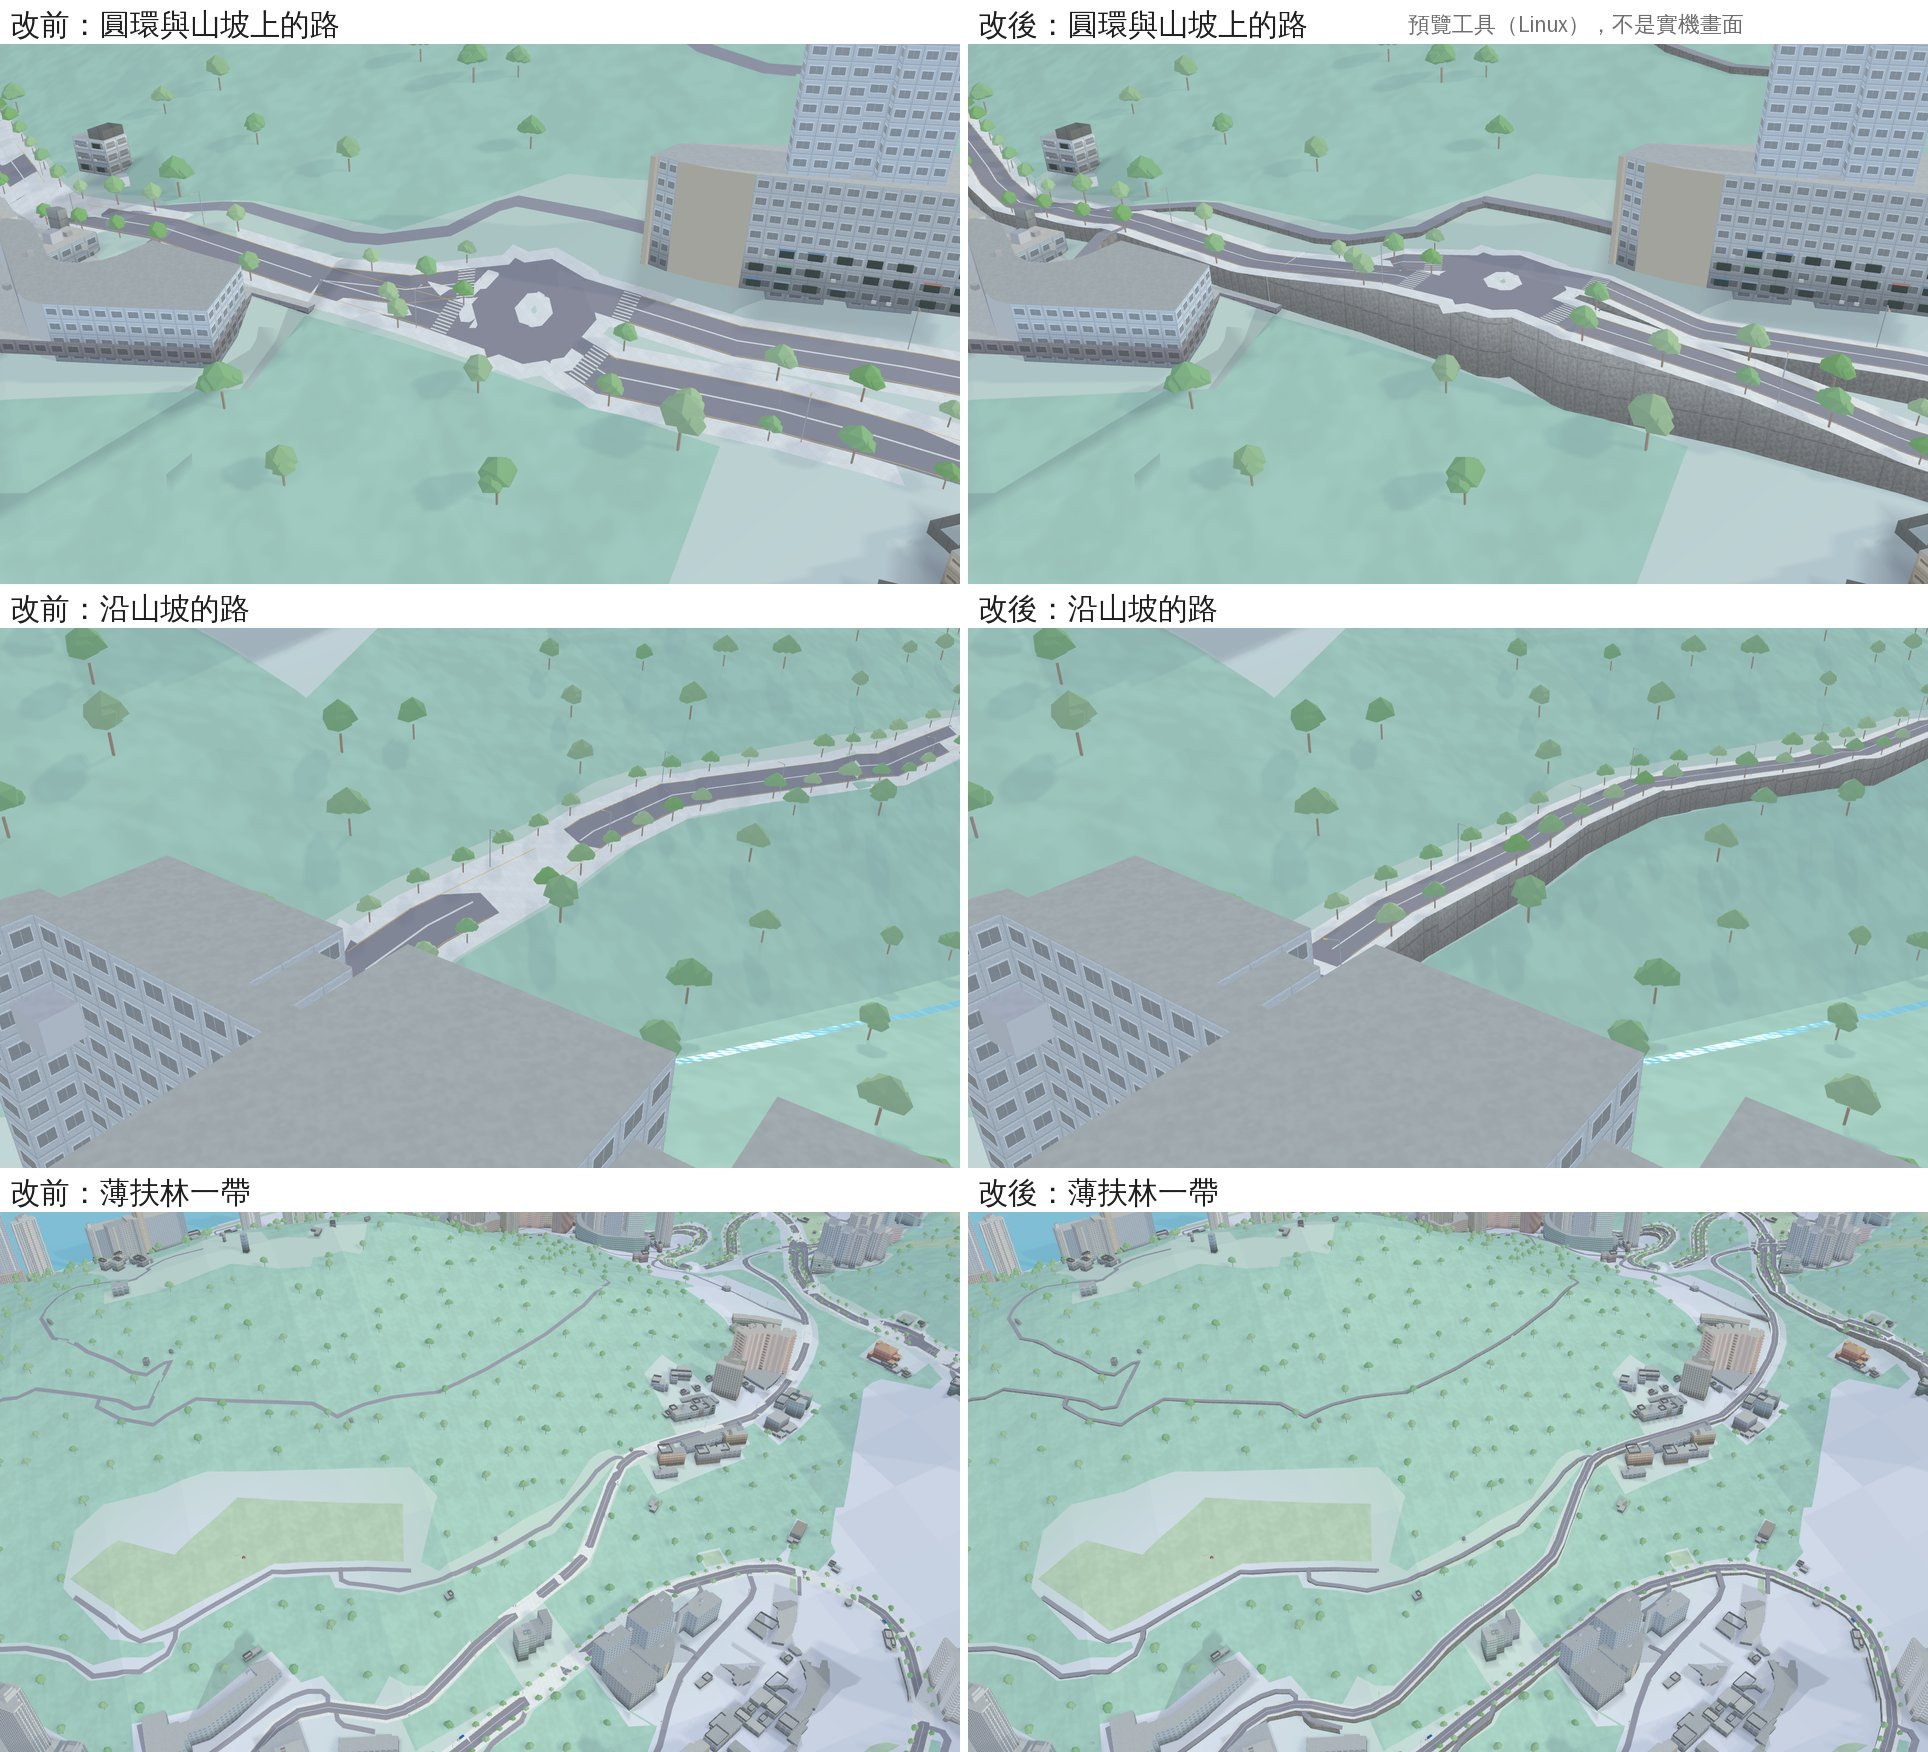
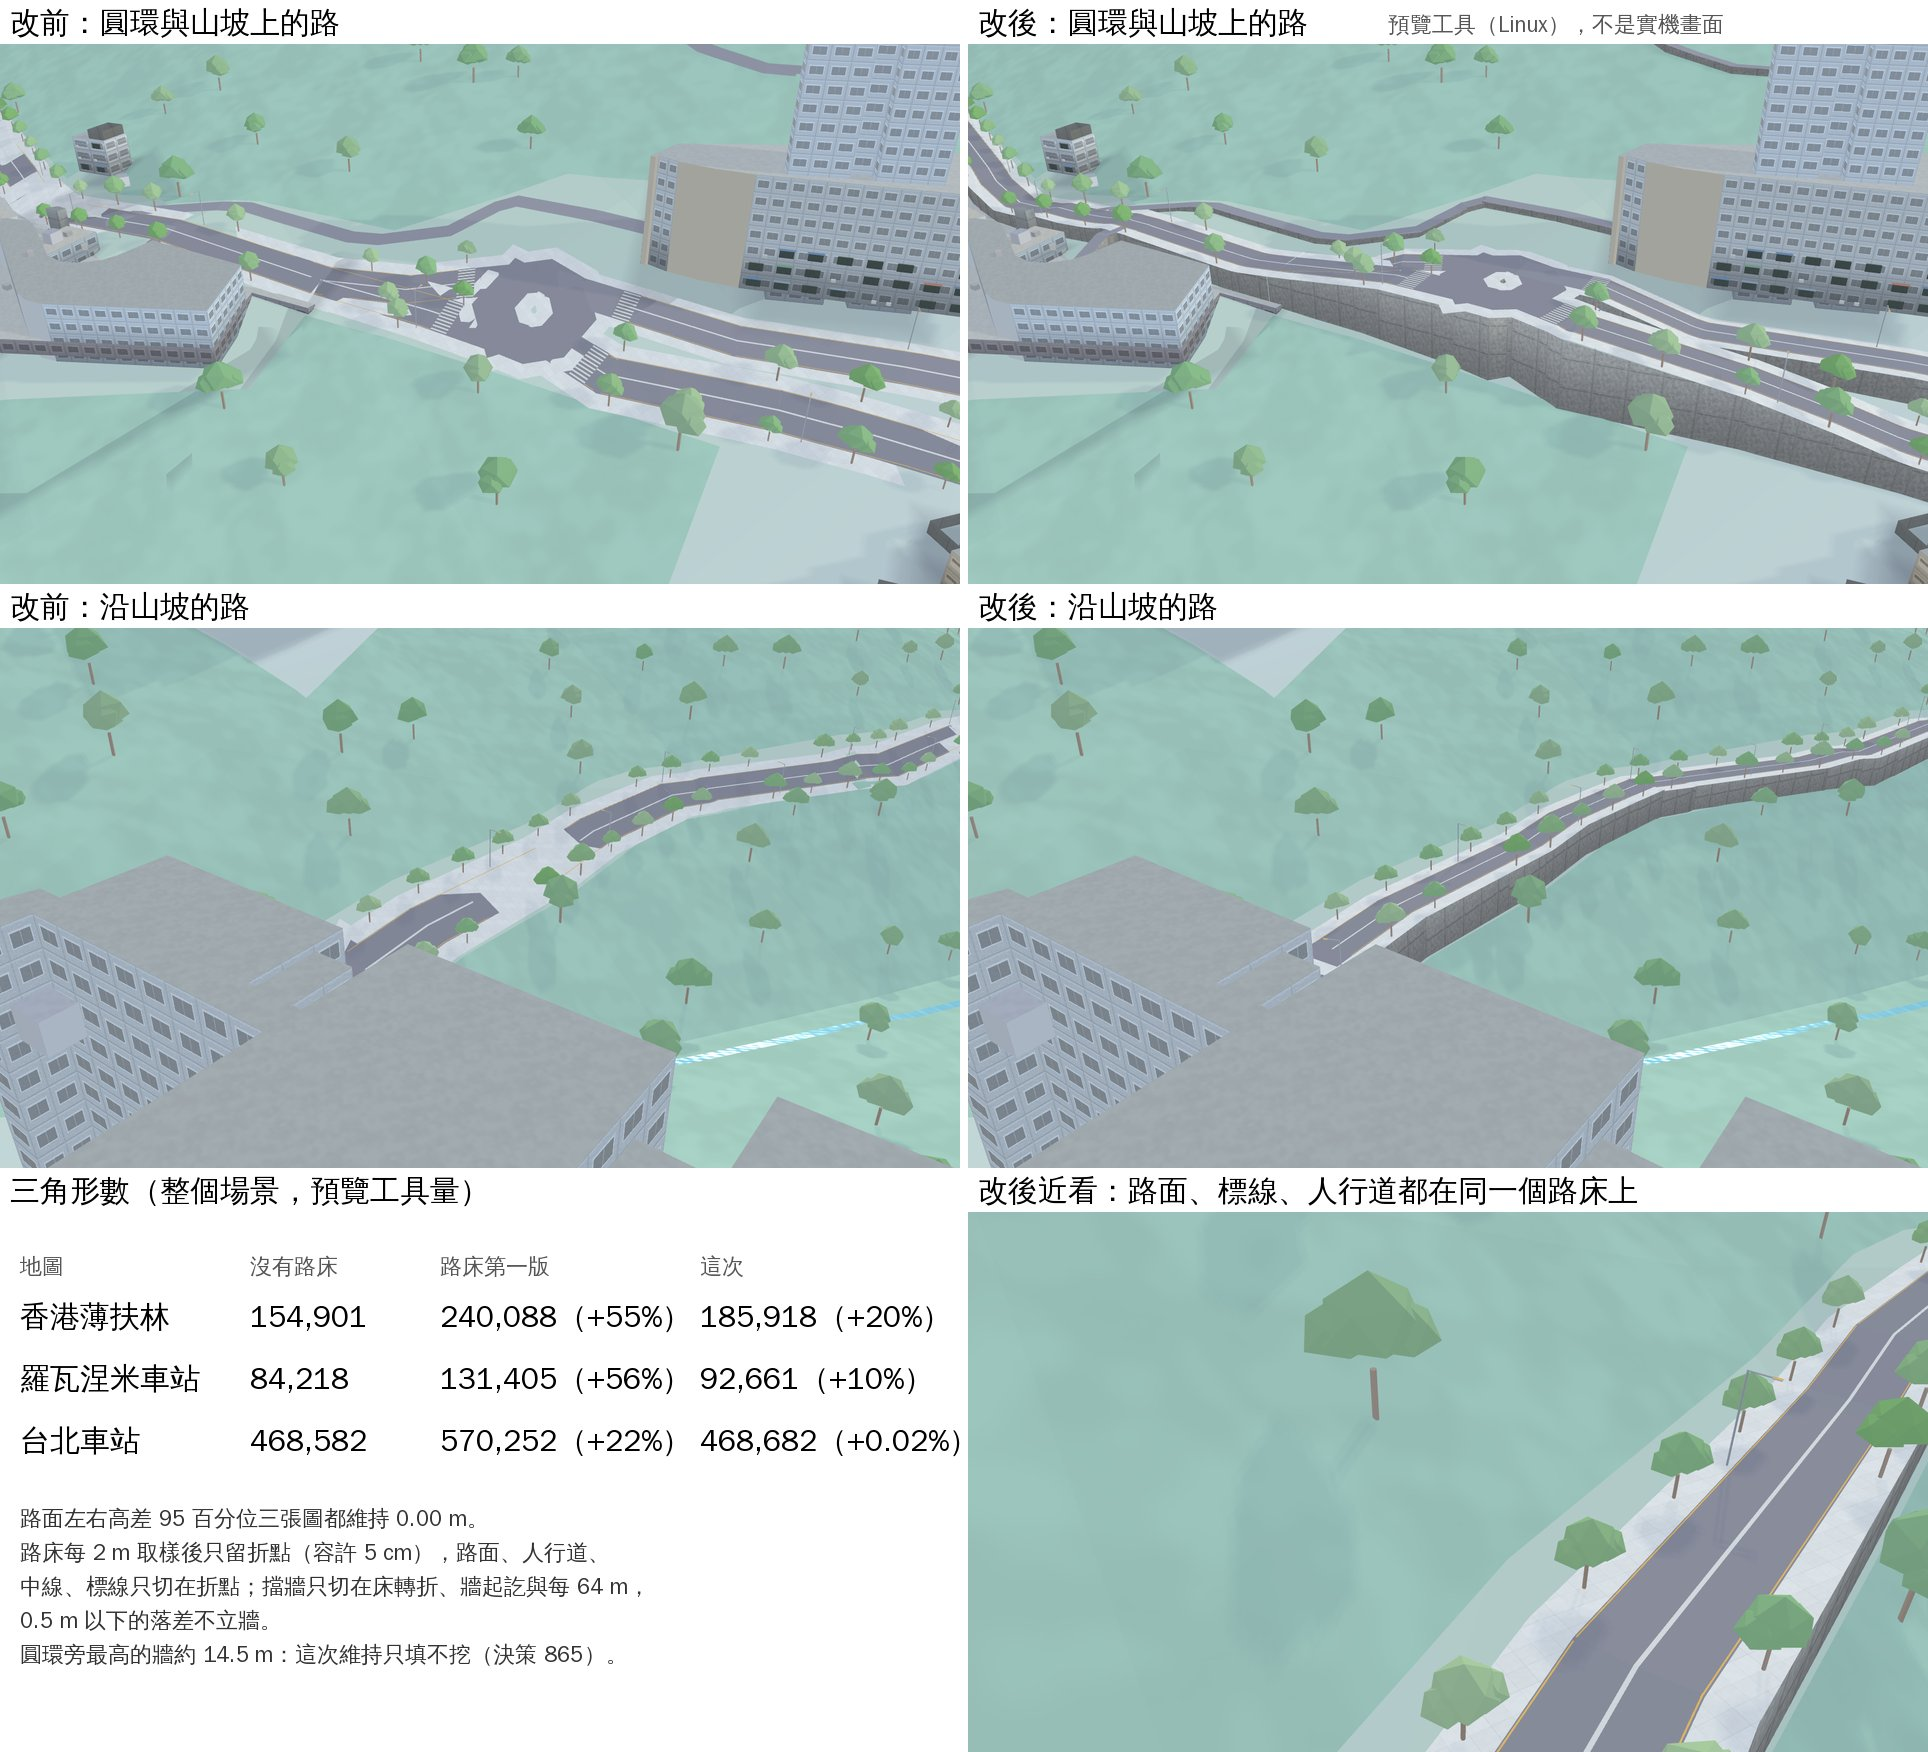
決策 865 後來：量測、高擋牆的決定、交接與對照圖（ROAD-BED-TRIANGLES）
Claude-Session: https://claude.ai/code/session_01YGNNupNdjaYVzvqrQhxfQx

diff --git a/docs/handoff/HK-ROAD-TILT.md b/docs/handoff/HK-ROAD-TILT.md
@@ -1,38 +1,39 @@
 # HK-ROAD-TILT：道路橫向找平（路床）
 
-派工單 HK-ROAD-TILT（bug，2.60，`a91453/railway-assets-private-2` `docs/priorities/HK-ROADS.md` 第 1 項），工作串「修香港山坡道路左右傾斜」，分支 `claude/project-thread-lw0f37`，決策 865。只改 GamePresentation；GameCore、存檔版本、golden、replay 都不動。原 session 在第二次壓縮後照規定停手，**PR 留 draft，還不能合**。
+派工單 HK-ROAD-TILT（bug，2.60，`a91453/railway-assets-private-2` `docs/priorities/HK-ROADS.md` 第 1 項）與它的後續 ROAD-BED-TRIANGLES（bug，2.50，同庫 `docs/priorities/HK-ROAD-TILT.md`）。決策 865 與它的「後來（ROAD-BED-TRIANGLES）」。只改 GamePresentation；GameCore、存檔版本、golden、replay 都不動。
+
+兩條工作串：「修香港山坡道路左右傾斜」（`claude/project-thread-lw0f37`，PR #2465，沒有合，第二次壓縮後停手）做了路床；「降低山坡路面三角形數」（`claude/project-thread-y8il8g`）接手把三角形降下來，兩者一起合。
 
 ## 進度
 
-- 做到哪：路床（`Map3DRoadBed.swift`）寫完並接到路面、人行道、中線、標線、街具、車流、橋與匝道的高度、國道縱斷面；決策 865、對照圖、新測試都在分支上。**還沒做：把多出來的三角形降下來**（下面第 1 項），所以 PR 是 draft。
-- 已驗證（Linux，Swift 6.4）：`swift build --build-tests -Xswiftc -warnings-as-errors` 乾淨；`Map3DRoadBedTests` 5 個通過；相關既有測試的結果寫在 PR。真實地形量測（預覽工具，不是實機）：路面左右高差 p95 香港薄扶林 3.29 → 0.00 m、台北 0.13 → 0.00 m、羅瓦涅米 0.38 → 0.00 m；三角形香港 +55%、台北 +22%、羅瓦涅米 +56%。
-- 下一步的第一個指令：照專案檔案區 `handoff/HK-ROAD-TILT-measure.patch` 開頭的說明把量測補丁放回去（不提交），`swift build --build-tests`，再跑裡面的 `measure2.sh tpe taipei` 當基準，然後動下面第 1 項。
+- 做完的：路床（`Map3DRoadBed.swift`）接到路面、人行道、中線、標線、街具、車流、橋與匝道的高度、國道縱斷面；路床留成折線，路面與擋牆只切在折點；立牆門檻 0.5 m；預覽工具會先呼叫 `mapGround()`。
+- 量到的（預覽工具，Linux，**不是實機**）：路面左右高差 p95 香港薄扶林 3.29 → 0.00 m、台北 0.13 → 0.00 m、羅瓦涅米 0.38 → 0.00 m；三角形比沒有路床時香港 +20%（第一版 +55%）、羅瓦涅米 +10%（+56%）、台北 +0.02%（+22%）。數字與對照圖在決策 865。
+- 已驗證（Linux，Swift 6.4）：`swift build --build-tests -Xswiftc -warnings-as-errors` 乾淨；`Map3DRoadBedTests` 8 個與道路相關的既有類別通過（清單在 PR）。其餘交給 CI。
 
-## 做了什麼
+## 還留下什麼（評分在私有庫 `docs/priorities/HK-ROAD-TILT.md`）
 
-決策 865 寫了規則、沒選的做法、量測、五方與參考對照。一句話：地面不動，每條底圖的路沿線每 2 m 取「橫向最高的地面」當床高，路面兩側同高，路口互相撐到同高再降回，並行的路併成一個平台，低側立擋牆。平地的路高度不變。所有地圖共用（`addBaseMap`）。
+1. **實機（Metal）沒看過，每幀成本沒量。** 下一版 TestFlight 請看香港山坡路（薄扶林、半山）與台北平地的路有沒有異狀。
+2. **高擋牆（ROAD-BED-HIGH-WALLS，2.30）**：這次拍圖量過後決定不改半挖半填（決策 865「後來」有數字與理由）。香港薄扶林的牆高過 6 m 的佔 8%，最高 14.5 m 在圓環旁（場景座標 x −1103、z −300，鏡頭 `a:-1110:-326:170:30:62:62`）。要修先動路口撐高：圓環每一段都被相接的路撐到同高（`Map3DRoadBed.tallest` 9 m、`passes` 3），可以讓環上各段取自己的床高再沿環平滑；不要先做全面半挖半填（要切地面的三角形，三角形會更多）。
+3. **縱坡（HK-ROAD-GRADE，2.30）**：沒有變好（香港 secondary p95 17.8%、primary 17.7%）。
+4. 小項（ROAD-BED-REST，1.95）：公司自己的公車路與種子街道沒有路床、斷頭路端面沒牆、`Map3DRoadTunnels` 洞口與 `bridgeDecks` 內部仍讀 `drawnGround`、高低差超過 2 m 的並行路各走各的。
+5. 台北、羅瓦涅米只量了數字，沒拍改前改後的圖；海邊的路沒有單獨拍。
 
-對照圖：`docs/art/hk-road-tilt-2026-11-18/overview.jpg`。
+## 想再降三角形的話
 
-## 還留下什麼（照順序）
+香港還多的三萬一千個裡，擋牆一萬六千（45.4 km、7,820 片）、路面與人行道一萬五千。可以動的：
 
-1. **三角形多兩成到五成，合併前要降下來。** 來源與方向：
-   - 路面、人行道、中線、標線在路床每個轉折多切一刀（`bedCuts`，1 cm 的 `bends`，和決策 391 共用）。路床的折點在「路中心±半寬」過 64 m 網格線與對角線的地方，一格大約 6 個，折點不落在 2 m 的取樣點上時前後兩點都算轉折，所以一個折點切兩刀。原本一格只切 3 刀（`splits`）。
-   - 可以試的：(a) 路床自己先簡化成折線（只留偏離超過幾公分的點，而且不低於原值），`bedCuts` 只切折線的頂點；(b) 整段都在床上的路面不再併 `splits` 的網格切點（床上的路不需要跟著地面的三角形）；(c) 擋牆的站點放寬（現在牆頂、牆腳各 1 cm），`Map3DRoadBed.wall` 0.35 m 在羅瓦涅米立了一萬六千個三角形的矮牆，可以提高門檻或只在落差大於人行道高度很多時才立；(d) 側傾很小的地圖（台北 p95 0.13 m）幾乎沒有得到什麼，卻付了兩成，可以考慮床高與中心地面差不到某個值的路不切。
-   - 目標自己定，建議：台北 +5% 以內、香港與羅瓦涅米 +20% 以內，再量一次實機或 `Map3DFrameCostReportTests`。
-2. **看圖**：香港薄扶林的圓環低側牆很高（路面 68.1 m，路緣下地面 57–60 m）。寬路的床取到上坡側人行道外緣，路口再把相接的路撐到同高（最多 9 m，`tallest`）。要不要改成床高取路中心附近（半挖半填，上坡側切進地面一點）是設計題，動之前先拍圖。
-3. 縱坡沒變好、略差（香港 secondary p95 16.1% → 17.9%）。評分在私有庫 `docs/priorities/HK-ROAD-TILT.md`。
-4. 台北、羅瓦涅米只量了數字，沒拍改前改後的圖；海邊的路（派工單寫「山坡與海邊」）沒有單獨拍。
-5. 沒做的小項（決策 865「沒做、沒驗證」）：公司自己的公車路與種子街道沒有路床、斷頭路端面沒牆、`Map3DRoadTunnels` 洞口與 `bridgeDecks` 內部仍讀 `drawnGround`、高低差超過 2 m 的並行路各走各的。
-6. **實機（Metal）沒看過。**
+- `Map3DRoadBed.tolerance`（5 cm）：再大地面會從人行道邊穿出來（人行道只高出橫向最高地面 0.11 m），要一起調 `slack`。
+- 擋牆在床每個超過 1 cm 的轉折都切一刀（`bent`）；牆頂可以改成自己的容許值（例如 5 cm，牆頂比人行道低 2 cm，會露出一條縫或凸出來，要看圖）。
+- 固定點（路自己的點、過 64 m 網格線）不能拿掉：分開蓋的 chunk 要留一樣的折點，床上的每一片也不能超過一格。
 
 ## 量測怎麼重跑
 
-補丁與三個腳本在專案檔案區 `handoff/HK-ROAD-TILT-measure.patch`（不在 repo 裡）。重點：
+補丁與腳本在專案檔案區 `handoff/HK-ROAD-TILT-measure.patch`（不在 repo 裡，已更新成合併後的樣子）。重點：
 
-- 預覽工具的世界若沒有買線，`GameWorld.groundHeight` 整張圖回答 0，場景是平的；補丁在蓋場景前呼叫 `world.mapGround()`（App 的 `GameLauncher` 也這樣做），高度檔才會被讀到。這個該正式加進 `tools/map3d-preview/Map3DPreviewDump.swift.txt`（這次沒加）。
-- `MAP3D_TILT=1` 印出各級道路左右高差與縱坡的百分位、三角形數；`MAP3D_NO_BED=1`（三行暫時的開關）是「改前」。
-- 香港：`MAP3D_WORLD=hongkong MAP3D_AT=22.2715:114.1290 MAP3D_REAL=1 MAP3D_BASEMAP=1 MAP3D_FOOTPRINTS=1 MAP3D_HEIGHTS=1 MAP3D_LANDCOVER=1 MAP3D_DAY=1 MAP3D_MINUTE=600`，鏡頭 `a:-1110:-326:170:30:62:62;b:180:472:170:120:85:62;wide:-400:-400:900:20:50:50`。
+- 把 `tools/map3d-preview/Map3DPreviewDump.swift.txt` 複製成 `Tests/GamePresentationTests/Map3DPreviewDump.swift` 再套補丁；`MAP3D_TILT=1` 印出各級道路左右高差與縱坡的百分位、三角形數與混凝土三角形數。量完刪掉那個檔。
+- `MAP3D_NO_BED=1`（補丁開頭寫的三行暫時開關）是「沒有路床」。
+- 量測在跑的時候不要重新建置（它跑的是測試執行檔）。
+- 香港：`MAP3D_WORLD=hongkong MAP3D_AT=22.2715:114.1290 MAP3D_REAL=1 MAP3D_BASEMAP=1 MAP3D_FOOTPRINTS=1 MAP3D_HEIGHTS=1 MAP3D_LANDCOVER=1 MAP3D_DAY=1 MAP3D_MINUTE=600`，鏡頭 `a:-1110:-326:170:30:62:62;b:180:472:170:120:85:62;c:200:460:70:120:86:55`（名字:x:z:距離:方向:看的高度:傾角）。羅瓦涅米、台北用各自預設的場景中心（不給 `MAP3D_AT`）。
 
 ## UNVERIFIED
 
